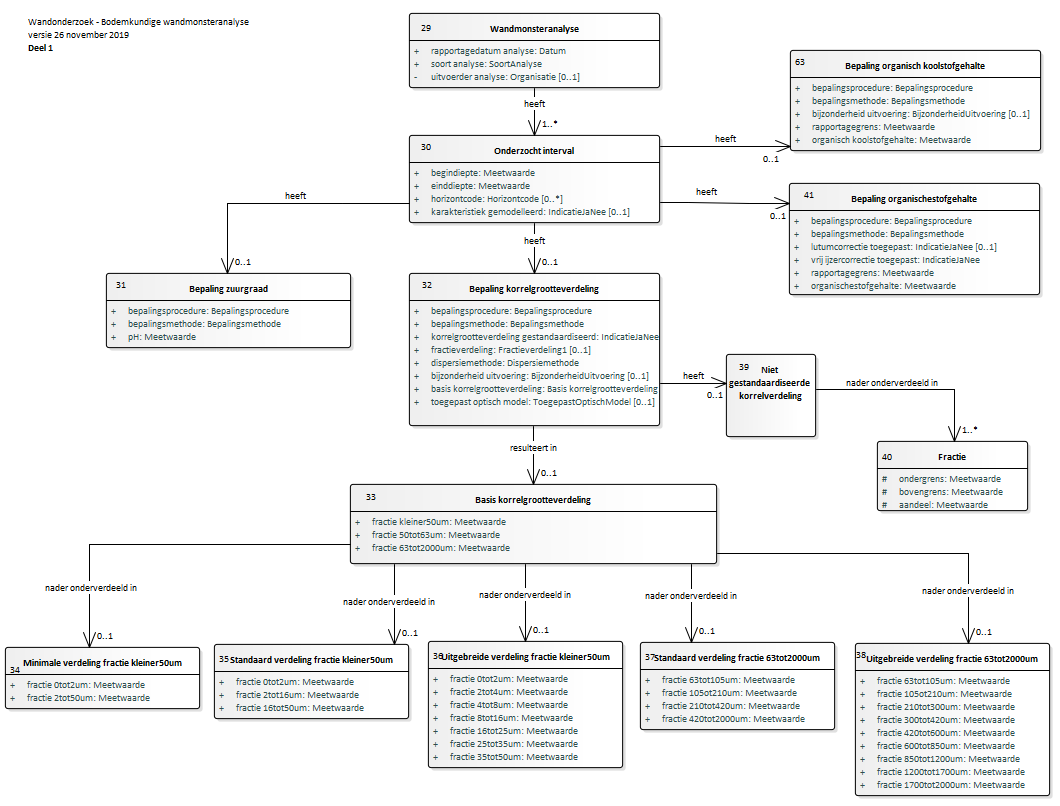
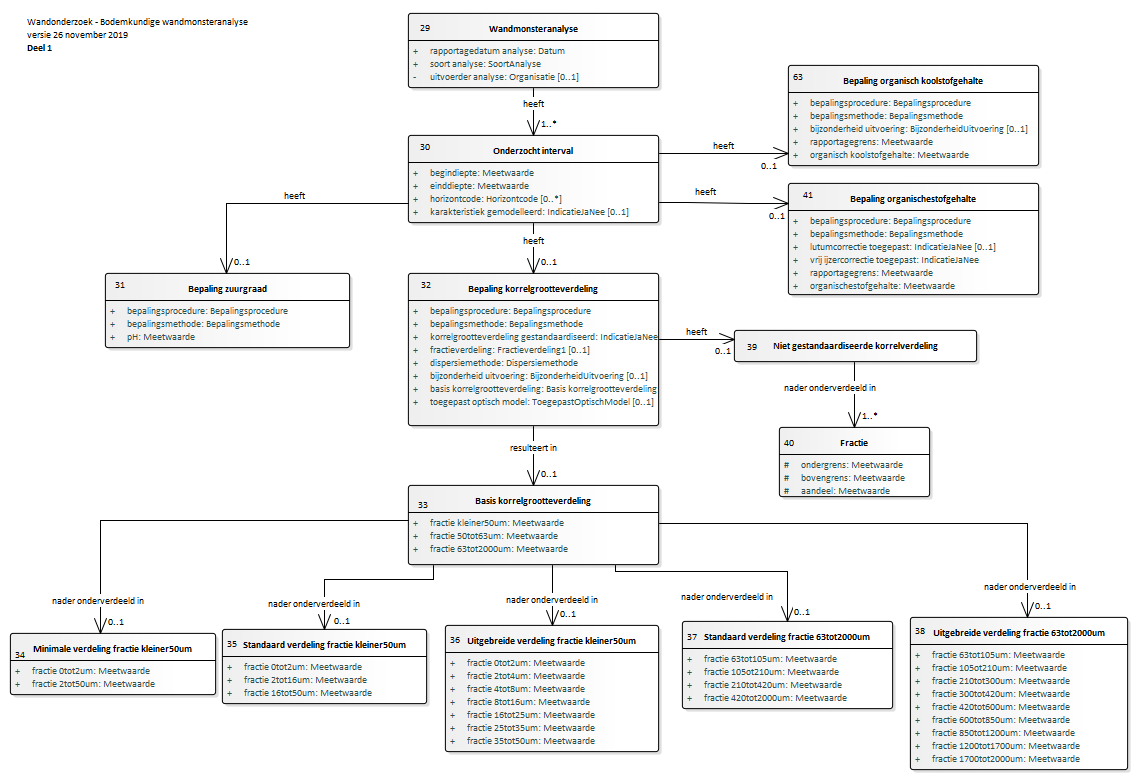
Conceptualmodel-BodemkundigwandonderzoekSFR-1.92.3versie10maart2020-3-20200316-20200317-102907

diff --git a/data/SFR-cat.msword.html b/data/SFR-cat.msword.html
@@ -13,7 +13,7 @@
    <body>
       <p>Conceptual model/Bodemkundig wandonderzoek (SFR)/20200316</p>
       <p>Imvertor: 1.59.2</p>
-      <p>Model release: Conceptualmodel-BodemkundigwandonderzoekSFR-1.92.3versie10maart2020-3-20200316-20200317-100921</p>
+      <p>Model release: Conceptualmodel-BodemkundigwandonderzoekSFR-1.92.3versie10maart2020-3-20200316-20200317-102907</p>
       <hr>
       <section>
          <h1>Artikel 1 Definitie van registratieobject, entiteiten en attributen</h1>
@@ -99,38 +99,38 @@
                      <area shape="rect" alt="Wandprofiel" coords="431,198,706,379" href="#graph_EAID_C8DB22CF_2CEE_428a_924A_FE940C205B86"></map><p><b>Domeinmodel BRO SFR Wandonderzoek- Wandbeschrijving</b></p>
                </div>
                <div class="imageinfo overview"><img src="Images/EAID_F311CC7E_93DB_4668_987D_525140F5B9D0.png" usemap="#imagemap-EAID_F311CC7E_93DB_4668_987D_525140F5B9D0" alt="Diagram "><map name="imagemap-EAID_F311CC7E_93DB_4668_987D_525140F5B9D0">
-                     <area shape="rect" alt="Niet gestandaardiseerde korrelverdeling" coords="726,354,816,437" href="#graph_EAID_85392C61_2694_433a_89B1_7CB7439020AE">
-                     <area shape="rect" alt="Fractie" coords="877,441,1028,511" href="#graph_EAID_431226DB_231C_42b8_8010_00402BDFC5AB">
-                     <area shape="rect" alt="Uitgebreide verdeling fractie 63tot2000um" coords="855,643,1050,796" href="#graph_EAID_A3EFAD78_CF43_496b_9454_F58C164C823C">
-                     <area shape="rect" alt="Standaard verdeling fractie 63tot2000um" coords="640,642,835,730" href="#graph_EAID_D9F10174_6BE1_4726_AD71_3E27E1A28945">
-                     <area shape="rect" alt="Uitgebreide verdeling fractie kleiner50um" coords="428,641,623,768" href="#graph_EAID_E1824E51_FA7A_4696_88DF_D4B613459AE6">
-                     <area shape="rect" alt="Standaard verdeling fractie kleiner50um" coords="214,644,409,719" href="#graph_EAID_473562AD_F147_491d_ABC1_DC031CC8025F">
-                     <area shape="rect" alt="Minimale verdeling fractie kleiner50um" coords="5,647,200,709" href="#graph_EAID_9662F2BD_475F_46e6_A8FC_5DBC439C35A0">
-                     <area shape="rect" alt="Basis korrelgrootteverdeling" coords="350,484,717,564" href="#graph_EAID_871F5094_E2B5_47a6_8F29_74B442A18DDA">
-                     <area shape="rect" alt="Bepaling korrelgrootteverdeling" coords="409,273,660,426" href="#graph_EAID_8A3656CD_0F50_48f6_9CF0_0890F48CA39A">
-                     <area shape="rect" alt="Bepaling organischestofgehalte" coords="789,183,1040,295" href="#graph_EAID_3C291EC5_84C5_4d25_8E28_F9D97115F1F7">
-                     <area shape="rect" alt="Bepaling organisch koolstofgehalte" coords="790,50,1041,151" href="#graph_EAID_34645118_BDCB_4863_8A47_BF5AE086C2D3">
-                     <area shape="rect" alt="Bepaling zuurgraad" coords="106,273,351,348" href="#graph_EAID_05CC081B_EF1F_4a65_96D4_4D0492C3A9A4">
-                     <area shape="rect" alt="Wandmonsteranalyse" coords="409,13,660,88" href="#graph_EAID_DC3E6339_1B2C_482c_AB74_881D1281A2EC">
-                     <area shape="rect" alt="Onderzocht interval" coords="409,135,660,223" href="#graph_EAID_A420FBE3_89CE_466c_875A_7F10AD21E90D"></map><p><b>Domeinmodel BRO SFR Bodemkundige analyses deel 1 1.91 </b></p>
+                     <area shape="rect" alt="Niet gestandaardiseerde korrelverdeling" coords="734,330,977,362" href="#graph_EAID_85392C61_2694_433a_89B1_7CB7439020AE">
+                     <area shape="rect" alt="Fractie" coords="779,427,930,497" href="#graph_EAID_431226DB_231C_42b8_8010_00402BDFC5AB">
+                     <area shape="rect" alt="Uitgebreide verdeling fractie 63tot2000um" coords="910,617,1128,770" href="#graph_EAID_A3EFAD78_CF43_496b_9454_F58C164C823C">
+                     <area shape="rect" alt="Standaard verdeling fractie 63tot2000um" coords="682,621,893,709" href="#graph_EAID_D9F10174_6BE1_4726_AD71_3E27E1A28945">
+                     <area shape="rect" alt="Uitgebreide verdeling fractie kleiner50um" coords="445,625,659,752" href="#graph_EAID_E1824E51_FA7A_4696_88DF_D4B613459AE6">
+                     <area shape="rect" alt="Standaard verdeling fractie kleiner50um" coords="222,629,427,704" href="#graph_EAID_473562AD_F147_491d_ABC1_DC031CC8025F">
+                     <area shape="rect" alt="Minimale verdeling fractie kleiner50um" coords="10,633,216,695" href="#graph_EAID_9662F2BD_475F_46e6_A8FC_5DBC439C35A0">
+                     <area shape="rect" alt="Basis korrelgrootteverdeling" coords="408,485,659,565" href="#graph_EAID_871F5094_E2B5_47a6_8F29_74B442A18DDA">
+                     <area shape="rect" alt="Bepaling korrelgrootteverdeling" coords="408,273,659,426" href="#graph_EAID_8A3656CD_0F50_48f6_9CF0_0890F48CA39A">
+                     <area shape="rect" alt="Bepaling organischestofgehalte" coords="788,183,1039,295" href="#graph_EAID_3C291EC5_84C5_4d25_8E28_F9D97115F1F7">
+                     <area shape="rect" alt="Bepaling organisch koolstofgehalte" coords="788,65,1039,166" href="#graph_EAID_34645118_BDCB_4863_8A47_BF5AE086C2D3">
+                     <area shape="rect" alt="Bepaling zuurgraad" coords="105,273,350,348" href="#graph_EAID_05CC081B_EF1F_4a65_96D4_4D0492C3A9A4">
+                     <area shape="rect" alt="Wandmonsteranalyse" coords="408,13,659,88" href="#graph_EAID_DC3E6339_1B2C_482c_AB74_881D1281A2EC">
+                     <area shape="rect" alt="Onderzocht interval" coords="408,135,659,223" href="#graph_EAID_A420FBE3_89CE_466c_875A_7F10AD21E90D"></map><p><b>Domeinmodel BRO SFR Bodemkundige analyses deel 1 1.91 </b></p>
                </div>
                <div class="imageinfo overview"><img src="Images/EAID_2E9B0773_D299_49e6_BEBA_866A5B1961C2.png" usemap="#imagemap-EAID_2E9B0773_D299_49e6_BEBA_866A5B1961C2" alt="Diagram "><map name="imagemap-EAID_2E9B0773_D299_49e6_BEBA_866A5B1961C2">
-                     <area shape="rect" alt="Wandmonsteranalyse" coords="289,10,557,38" href="#graph_EAID_DC3E6339_1B2C_482c_AB74_881D1281A2EC">
-                     <area shape="rect" alt="Krimptoestand" coords="36,593,223,681" href="#graph_EAID_ABD5754F_2F97_48b5_B6AA_798E8E996A1B">
-                     <area shape="rect" alt="Krimpverloop" coords="38,502,220,530" href="#graph_EAID_368A7E5B_2AC2_4377_898A_204592B121EE">
-                     <area shape="rect" alt="Bepaling krimpverloop" coords="10,327,251,441" href="#graph_EAID_FE20ED5D_F749_4cbf_A3F0_622FD6CE25DE">
-                     <area shape="rect" alt="Waterdoorlatendheidstoestand" coords="321,690,535,769" href="#graph_EAID_B49C8011_2704_45aa_B634_D2A7C3DBA664">
-                     <area shape="rect" alt="Waterdoorlatendheidsverloop" coords="321,593,535,621" href="#graph_EAID_7E57EB8B_0FFF_4b51_8B5A_AE9275E95298">
-                     <area shape="rect" alt="Waterretentiewaarde" coords="633,693,847,768" href="#graph_EAID_F02CB409_6369_43fa_851D_041176F3D170">
-                     <area shape="rect" alt="Waterretentie" coords="633,601,847,629" href="#graph_EAID_D23C916F_2BD4_4ea8_8084_CD4A129DC709">
-                     <area shape="rect" alt="Overzicht tensiometergegevens" coords="1168,36,1347,166" href="#graph_EAID_C8F6BEB6_3483_4781_A0FC_156AA99B7B0C">
-                     <area shape="rect" alt="Waterretentiewaarde verdamping" coords="889,361,1123,472" href="#graph_EAID_E568963F_D23E_4b85_AE99_F8FF7B47842B">
-                     <area shape="rect" alt="Waterretentie verdamping" coords="821,249,1121,286" href="#graph_EAID_2DFF99AA_EEBB_4f93_BFBE_9601B723031A">
-                     <area shape="rect" alt="Bepaling watergehalte en doorlatendheid bij veranderende bodemvochtpotentiaal" coords="602,10,1121,192" href="#graph_EAID_49AD3898_158D_47c7_B1AF_C839D2CB7B68">
-                     <area shape="rect" alt="Bepaling waterretentie stapsgewijs" coords="619,327,860,561" href="#graph_EAID_BAE772BD_B71F_4124_98FC_F7EF5E68BCBF">
-                     <area shape="rect" alt="Bepaling waterdoorlatendheid" coords="294,328,562,535" href="#graph_EAID_BCDCEB7C_2766_41e9_9958_35F5860BE49A">
-                     <area shape="rect" alt="Bepaling droge bulkdichtheid" coords="10,138,251,278" href="#graph_EAID_A1E3A70D_62A1_406f_8D49_F395104462BB">
-                     <area shape="rect" alt="Onderzocht interval" coords="289,89,557,119" href="#graph_EAID_A420FBE3_89CE_466c_875A_7F10AD21E90D"></map><p><b>Domeinmodel BRO SFR Bodemkundige analyses deel 2 1.91</b></p>
+                     <area shape="rect" alt="Wandmonsteranalyse" coords="289,12,557,40" href="#graph_EAID_DC3E6339_1B2C_482c_AB74_881D1281A2EC">
+                     <area shape="rect" alt="Krimptoestand" coords="36,595,223,683" href="#graph_EAID_ABD5754F_2F97_48b5_B6AA_798E8E996A1B">
+                     <area shape="rect" alt="Krimpverloop" coords="38,504,220,532" href="#graph_EAID_368A7E5B_2AC2_4377_898A_204592B121EE">
+                     <area shape="rect" alt="Bepaling krimpverloop" coords="10,329,251,443" href="#graph_EAID_FE20ED5D_F749_4cbf_A3F0_622FD6CE25DE">
+                     <area shape="rect" alt="Waterdoorlatendheidstoestand" coords="321,692,535,771" href="#graph_EAID_B49C8011_2704_45aa_B634_D2A7C3DBA664">
+                     <area shape="rect" alt="Waterdoorlatendheidsverloop" coords="321,595,535,623" href="#graph_EAID_7E57EB8B_0FFF_4b51_8B5A_AE9275E95298">
+                     <area shape="rect" alt="Waterretentiewaarde" coords="633,695,847,770" href="#graph_EAID_F02CB409_6369_43fa_851D_041176F3D170">
+                     <area shape="rect" alt="Waterretentie" coords="633,603,847,631" href="#graph_EAID_D23C916F_2BD4_4ea8_8084_CD4A129DC709">
+                     <area shape="rect" alt="Overzicht tensiometergegevens" coords="941,38,1120,168" href="#graph_EAID_C8F6BEB6_3483_4781_A0FC_156AA99B7B0C">
+                     <area shape="rect" alt="Waterretentiewaarde verdamping" coords="889,363,1123,474" href="#graph_EAID_E568963F_D23E_4b85_AE99_F8FF7B47842B">
+                     <area shape="rect" alt="Waterretentie verdamping" coords="821,251,1121,288" href="#graph_EAID_2DFF99AA_EEBB_4f93_BFBE_9601B723031A">
+                     <area shape="rect" alt="Bepaling watergehalte en doorlatendheid bij veranderende bodemvochtpotentiaal" coords="602,10,858,202" href="#graph_EAID_49AD3898_158D_47c7_B1AF_C839D2CB7B68">
+                     <area shape="rect" alt="Bepaling waterretentie stapsgewijs" coords="619,329,860,563" href="#graph_EAID_BAE772BD_B71F_4124_98FC_F7EF5E68BCBF">
+                     <area shape="rect" alt="Bepaling waterdoorlatendheid" coords="294,330,562,537" href="#graph_EAID_BCDCEB7C_2766_41e9_9958_35F5860BE49A">
+                     <area shape="rect" alt="Bepaling droge bulkdichtheid" coords="10,140,251,280" href="#graph_EAID_A1E3A70D_62A1_406f_8D49_F395104462BB">
+                     <area shape="rect" alt="Onderzocht interval" coords="289,91,557,121" href="#graph_EAID_A420FBE3_89CE_466c_875A_7F10AD21E90D"></map><p><b>Domeinmodel BRO SFR Bodemkundige analyses deel 2 1.91</b></p>
                </div>
                <div class="imageinfo overview"><img src="Images/EAID_900B6706_7FEE_46f2_B5FB_5FB28C185ED4.png" usemap="#imagemap-EAID_900B6706_7FEE_46f2_B5FB_5FB28C185ED4" alt="Diagram "><map name="imagemap-EAID_900B6706_7FEE_46f2_B5FB_5FB28C185ED4">
                      <area shape="rect" alt="Watergehalte en doorlatendheid bij bepaalde bodemvochtpotentiaal" coords="574,511,888,593" href="#graph_EAID_321DD240_1DC5_4a4a_A79F_B87D293B2042">
